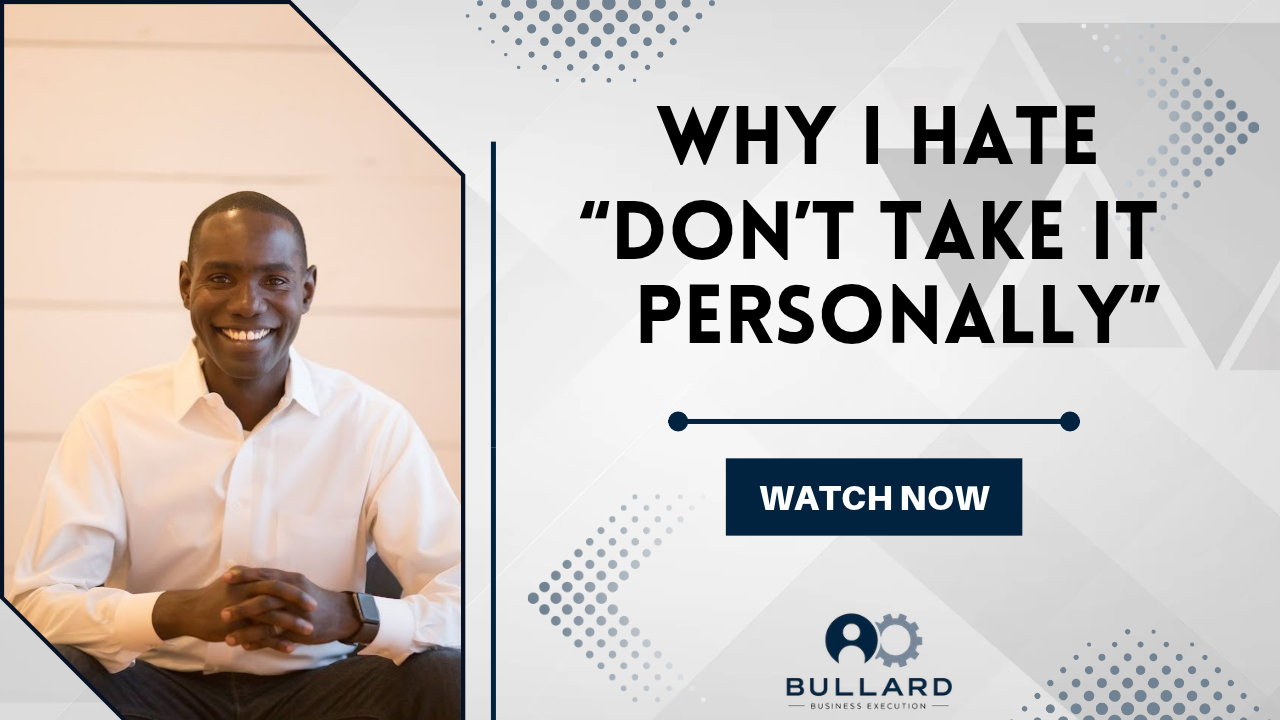
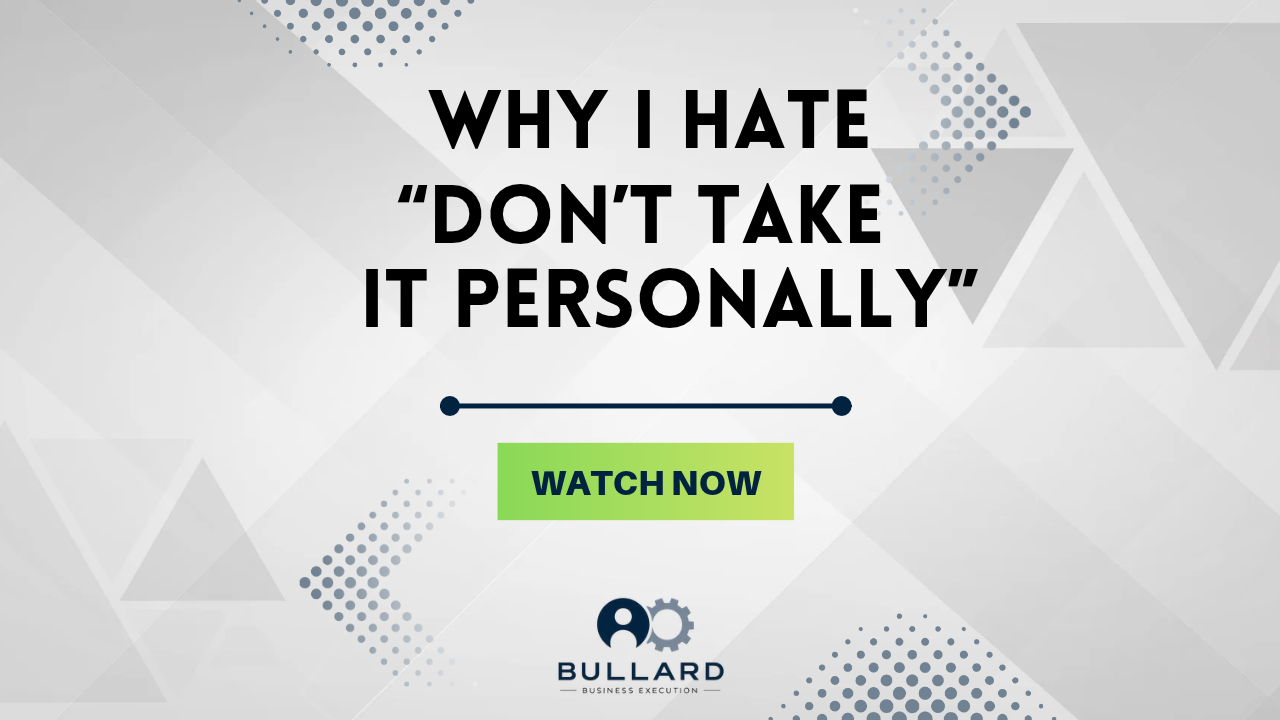
Replace sample talk thumbnails

diff --git a/year-end-speaking.html b/year-end-speaking.html
@@ -38,9 +38,9 @@
     </div></div></section>
 
     <section class="samples section-pad" aria-labelledby="samples-title"><div class="shell"><div class="section-heading"><div><span class="eyebrow">Short Sample Talks</span><h2 id="samples-title">See how Kevin brings an idea to life.</h2></div><p>Watch three short talks to get a feel for Kevin's tone, storytelling, and practical approach.</p></div><div class="sample-grid">
-      <a class="sample-card" href="https://d3lz7d2zk76z0y.cloudfront.net/dont-take-it-personally.mp4" target="_blank" rel="noopener"><img src="assets/sample-dont-take-it-personally.png" alt="Watch Don't Take It Personally by Kevin Bullard" width="1280" height="720"><span class="sample-card-copy"><h3>Don't Take It Personally</h3><span class="sample-card-cta">Watch sample talk</span></span></a>
-      <a class="sample-card" href="https://d3lz7d2zk76z0y.cloudfront.net/it-always-works-out.mp4" target="_blank" rel="noopener"><img src="assets/sample-it-always-works-out.png" alt="Watch It Always Works Out for Me by Kevin Bullard" width="1280" height="720"><span class="sample-card-copy"><h3>It Always Works Out for Me</h3><span class="sample-card-cta">Watch sample talk</span></span></a>
-      <a class="sample-card" href="https://d3lz7d2zk76z0y.cloudfront.net/whats-your-commitment.mp4" target="_blank" rel="noopener"><img src="assets/sample-whats-your-commitment.png" alt="Watch What's Your Commitment by Kevin Bullard" width="1280" height="720"><span class="sample-card-copy"><h3>What's Your Commitment?</h3><span class="sample-card-cta">Watch sample talk</span></span></a>
+      <a class="sample-card" href="https://d3lz7d2zk76z0y.cloudfront.net/dont-take-it-personally.mp4" target="_blank" rel="noopener"><img src="assets/sample-dont-take-it-personally.png?v=2" alt="Watch Don't Take It Personally by Kevin Bullard" width="1280" height="720"><span class="sample-card-copy"><h3>Don't Take It Personally</h3><span class="sample-card-cta">Watch sample talk</span></span></a>
+      <a class="sample-card" href="https://d3lz7d2zk76z0y.cloudfront.net/it-always-works-out.mp4" target="_blank" rel="noopener"><img src="assets/sample-it-always-works-out.png?v=2" alt="Watch It Always Works Out for Me by Kevin Bullard" width="1280" height="720"><span class="sample-card-copy"><h3>It Always Works Out for Me</h3><span class="sample-card-cta">Watch sample talk</span></span></a>
+      <a class="sample-card" href="https://d3lz7d2zk76z0y.cloudfront.net/whats-your-commitment.mp4" target="_blank" rel="noopener"><img src="assets/sample-whats-your-commitment.png?v=2" alt="Watch What's Your Commitment by Kevin Bullard" width="1280" height="720"><span class="sample-card-copy"><h3>What's Your Commitment?</h3><span class="sample-card-cta">Watch sample talk</span></span></a>
     </div></div></section>
 
     <section class="fit section-pad" aria-labelledby="fit-title"><div class="shell"><div class="section-heading"><div><span class="eyebrow">A Fit For</span><h2 id="fit-title">Gatherings meant to recognize people and mark the moment.</h2></div><p>Kevin works with event leaders to select and tailor the theme so it fits the room, the culture, and the reason people are gathering.</p></div><div class="fit-grid"><article class="fit-card"><h3>Holiday Parties</h3><p>An encouraging message that adds meaning without asking people to do more.</p></article><article class="fit-card"><h3>Employee Appreciation</h3><p>A thoughtful way to recognize everyday contributions that are easy to overlook.</p></article><article class="fit-card"><h3>Year-End Gatherings</h3><p>A shared pause to reflect on the year and approach the next one intentionally.</p></article></div></div></section>
